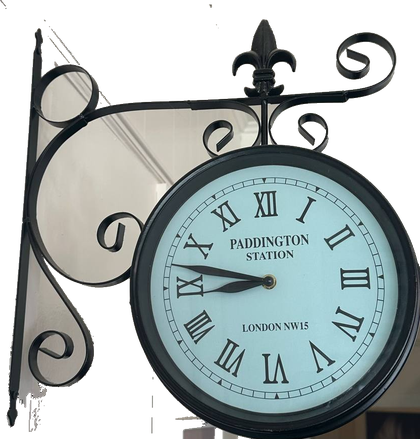
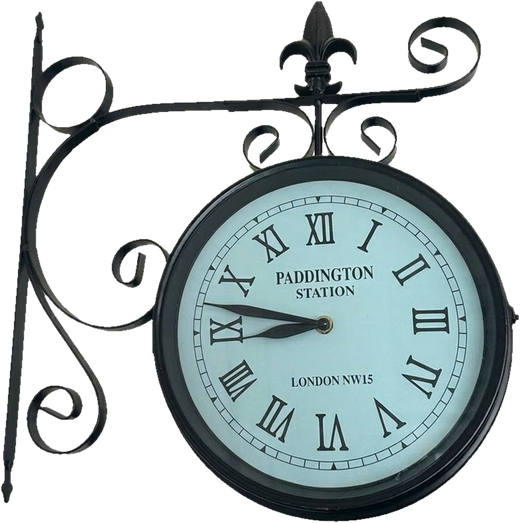
Add cleaner clock + rose cut-outs; scatter roses across the site
- New Paddington clock cut-out from the clean checkerboard render
  (keyed out by saturation so the full iron bracket + face stay crisp)
- New blush + deep peony cut-outs from the high-res "hello Beautiful" render
- Rose component gains rotate/flip/variant controls; peonies now accent the
  hero, services, experience, visit, and footer sections

Claude-Session: https://claude.ai/code/session_019G9EVy7KzunsYuYkfbepbG

diff --git a/src/app/page.tsx b/src/app/page.tsx
@@ -52,11 +52,23 @@ export default async function HomePage() {
 
         <Chandelier />
         <Clock className="hidden sm:block" />
-        <Rose variant="br" className="bottom-[5%] right-[3%] sm:right-[7%]" />
         <Rose
-          variant="tl"
-          className="left-[4%] top-[40%] hidden md:block"
-          width="clamp(80px,9vw,140px)"
+          variant="deep"
+          className="bottom-[3%] right-[1%] sm:right-[5%]"
+          width="clamp(112px,15vw,205px)"
+          rotate={-6}
+        />
+        <Rose
+          variant="blush"
+          className="left-[2%] top-[44%] hidden md:block"
+          width="clamp(78px,9vw,150px)"
+          rotate={9}
+        />
+        <Rose
+          variant="blush"
+          className="bottom-[7%] left-[6%] hidden lg:block"
+          width="clamp(64px,6vw,98px)"
+          rotate={-16}
         />
 
         <div className="container-page relative z-30 flex min-h-[90vh] flex-col items-center pb-24 pt-48 text-center sm:pt-[290px]">
@@ -85,8 +97,20 @@ export default async function HomePage() {
       </section>
 
       {/* ------------------------------------------------------------ Services */}
-      <section id="services" className="relative border-t border-line bg-bg">
-        <div className="container-page py-20 sm:py-28">
+      <section id="services" className="relative overflow-hidden border-t border-line bg-bg">
+        <Rose
+          variant="blush"
+          className="-right-6 top-12 sm:right-4"
+          width="clamp(64px,8vw,118px)"
+          rotate={14}
+        />
+        <Rose
+          variant="deep"
+          className="-left-8 bottom-24 hidden sm:block"
+          width="clamp(70px,9vw,128px)"
+          rotate={-12}
+        />
+        <div className="container-page relative z-20 py-20 sm:py-28">
           <div className="mx-auto max-w-2xl text-center">
             <p className="script text-3xl text-accent">the menu</p>
             <h2 className="mt-1 font-serif text-4xl sm:text-5xl">Services &amp; pricing</h2>
@@ -145,8 +169,20 @@ export default async function HomePage() {
       </section>
 
       {/* ---------------------------------------------------------- Experience */}
-      <section className="bg-ink text-cream">
-        <div className="container-page grid gap-12 py-20 sm:py-28 lg:grid-cols-3">
+      <section className="relative overflow-hidden bg-ink text-cream">
+        <Rose
+          variant="deep"
+          className="-right-8 -top-8 hidden sm:block"
+          width="clamp(96px,11vw,168px)"
+          rotate={22}
+        />
+        <Rose
+          variant="blush"
+          className="-bottom-10 left-[6%] hidden lg:block"
+          width="clamp(80px,8vw,120px)"
+          rotate={-18}
+        />
+        <div className="container-page relative z-20 grid gap-12 py-20 sm:py-28 lg:grid-cols-3">
           {[
             {
               t: "A real consultation",
@@ -172,7 +208,19 @@ export default async function HomePage() {
 
       {/* --------------------------------------------------------------- Visit */}
       <section id="visit" className="relative overflow-hidden stripes-soft">
-        <div className="container-page grid gap-12 py-20 sm:py-28 lg:grid-cols-2">
+        <Rose
+          variant="blush"
+          className="-right-6 top-[12%] hidden md:block"
+          width="clamp(80px,9vw,140px)"
+          rotate={-12}
+        />
+        <Rose
+          variant="deep"
+          className="-bottom-8 -left-6 hidden sm:block"
+          width="clamp(72px,8vw,120px)"
+          rotate={16}
+        />
+        <div className="container-page relative z-20 grid gap-12 py-20 sm:py-28 lg:grid-cols-2">
           <div>
             <p className="script text-3xl text-accent">come say hello</p>
             <h2 className="mt-1 font-serif text-4xl sm:text-5xl">Visit the salon</h2>

diff --git a/src/components/theme/SalonDecor.tsx b/src/components/theme/SalonDecor.tsx
@@ -36,7 +36,7 @@ export function Clock({ className = "" }: { className?: string }) {
       aria-hidden
       className={`pointer-events-none absolute left-0 top-0 z-20 animate-slide-in-left ${className}`}
     >
-      <div className="relative aspect-[832/870] w-[clamp(120px,15vw,210px)] drop-shadow-[0_12px_18px_rgba(28,25,24,0.16)]">
+      <div className="relative aspect-[520/523] w-[clamp(124px,15vw,212px)] drop-shadow-[0_14px_20px_rgba(28,25,24,0.18)]">
         <Image
           src="/theme/cut/clock-bracket.png"
           alt=""
@@ -51,19 +51,36 @@ export function Clock({ className = "" }: { className?: string }) {
 }
 
 type RoseProps = {
-  variant?: "br" | "tl";
+  /** "deep" = magenta peony, "blush" = soft pink peony. */
+  variant?: "deep" | "blush";
   className?: string;
   width?: string;
+  /** rotation in degrees, for natural variety */
+  rotate?: number;
+  flip?: boolean;
+  /** z-index of the rose (default sits behind text at 10) */
+  z?: number;
 };
 
-export function Rose({ variant = "br", className = "", width }: RoseProps) {
-  const src = variant === "br" ? "/theme/cut/rose-br.png" : "/theme/cut/rose-tl.png";
-  const ratio = variant === "br" ? "220/241" : "151/168";
+export function Rose({
+  variant = "deep",
+  className = "",
+  width,
+  rotate = 0,
+  flip = false,
+  z = 10,
+}: RoseProps) {
+  const src = variant === "deep" ? "/theme/cut/rose-br.png" : "/theme/cut/rose-tl.png";
+  const ratio = variant === "deep" ? "340/348" : "340/294";
   return (
-    <div aria-hidden className={`pointer-events-none absolute z-10 ${className}`}>
+    <div aria-hidden className={`pointer-events-none absolute ${className}`} style={{ zIndex: z }}>
       <div
-        className="relative drop-shadow-[0_10px_16px_rgba(158,58,88,0.18)]"
-        style={{ aspectRatio: ratio, width: width ?? "clamp(90px,12vw,170px)" }}
+        className="relative drop-shadow-[0_12px_18px_rgba(158,58,88,0.20)]"
+        style={{
+          aspectRatio: ratio,
+          width: width ?? "clamp(90px,12vw,170px)",
+          transform: `${flip ? "scaleX(-1) " : ""}rotate(${rotate}deg)`,
+        }}
       >
         <Image src={src} alt="" fill sizes="(max-width:768px) 28vw, 170px" className="object-contain" />
       </div>

diff --git a/src/components/SiteFooter.tsx b/src/components/SiteFooter.tsx
@@ -1,11 +1,18 @@
 import Link from "next/link";
+import { Rose } from "@/components/theme/SalonDecor";
 import { SALON, hoursForDisplay } from "@/lib/salon-config";
 
 export default function SiteFooter() {
   const hours = hoursForDisplay();
   return (
-    <footer className="border-t border-line bg-surface">
-      <div className="container-page grid gap-10 py-14 sm:grid-cols-2 lg:grid-cols-4">
+    <footer className="relative overflow-hidden border-t border-line bg-surface">
+      <Rose
+        variant="blush"
+        className="-right-8 -top-10 hidden sm:block"
+        width="clamp(80px,9vw,130px)"
+        rotate={18}
+      />
+      <div className="container-page relative z-20 grid gap-10 py-14 sm:grid-cols-2 lg:grid-cols-4">
         <div className="lg:col-span-2">
           <div className="font-serif text-2xl">{SALON.name}</div>
           <p className="mt-3 max-w-xs text-sm leading-relaxed text-muted">
